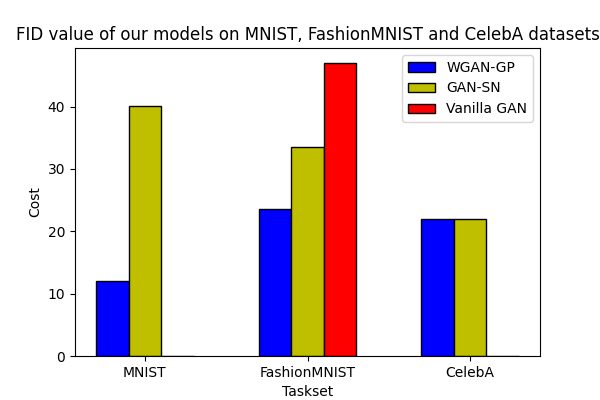
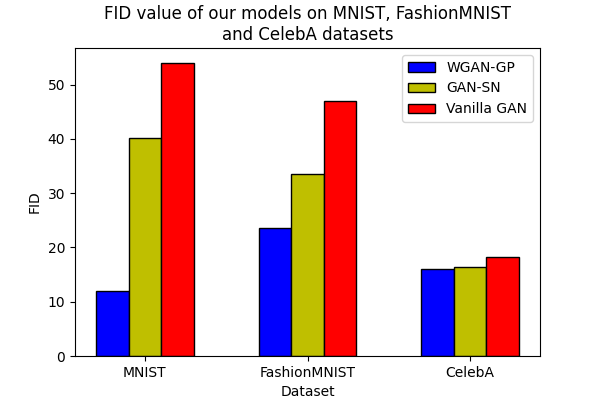
Update

diff --git a/plots.py b/plots.py
@@ -4,12 +4,15 @@ import matplotlib.pyplot as plt
 
 fid_gansn = genfromtxt('results/celeba_gansn.csv', delimiter=',')[1:]
 fid_wgangp = genfromtxt('results/celeba_wgangp.csv', delimiter=',')[1:]
+fid_gan = genfromtxt('results/celeba_gan_2.csv', delimiter=',')[1:]
 print(fid_gansn)
 print(fid_wgangp)
+print(fid_gan)
 
 x = np.arange(0, len(fid_gansn), step=1) + 1
 plt.plot(x, fid_gansn, label="GAN-SN")
 plt.plot(x, fid_wgangp, label="WGAN-GP")
+plt.plot(x, fid_gan, label="GAN")
 plt.xlabel("Epoch")
 plt.ylabel("FID")
 plt.title("FID plot during training of the models")
@@ -28,7 +31,7 @@ fig = plt.figure(figsize=(6, 4), dpi=100)
 plt.bar(r, fid_wgangp, color = 'b', width = width, edgecolor = 'black', label='WGAN-GP')
 plt.bar(r + width, fid_gansn, color = 'y', width = width, edgecolor = 'black', label='GAN-SN')
 plt.bar(r + width * 2, fid_gan, color = 'r', width = width, edgecolor = 'black', label='Vanilla GAN')
-plt.xlabel("Taskset")
+plt.xlabel("Dataset")
 plt.ylabel("FID")
 plt.title("FID value of our models on MNIST, FashionMNIST\nand CelebA datasets")
 plt.xticks(r + width, ['MNIST','FashionMNIST','CelebA'])
